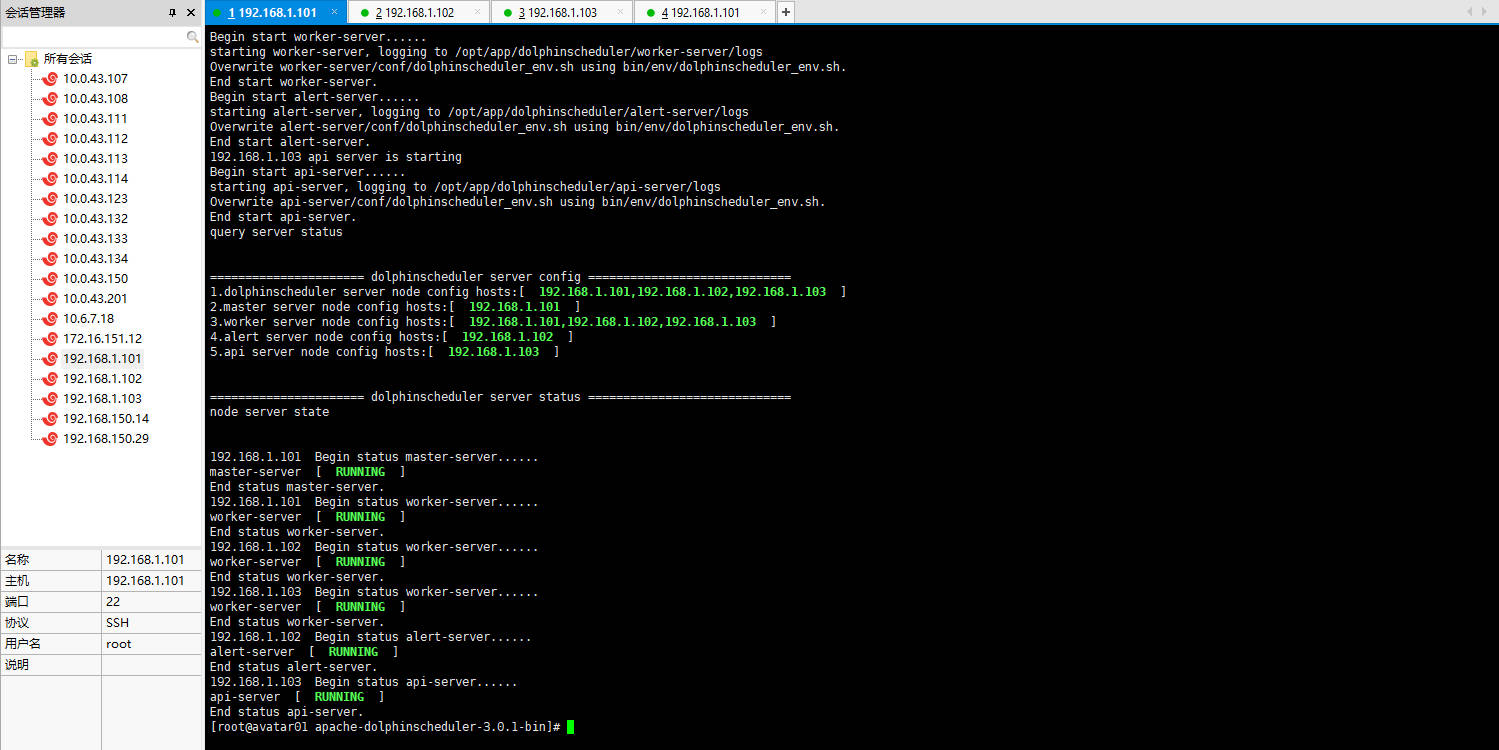
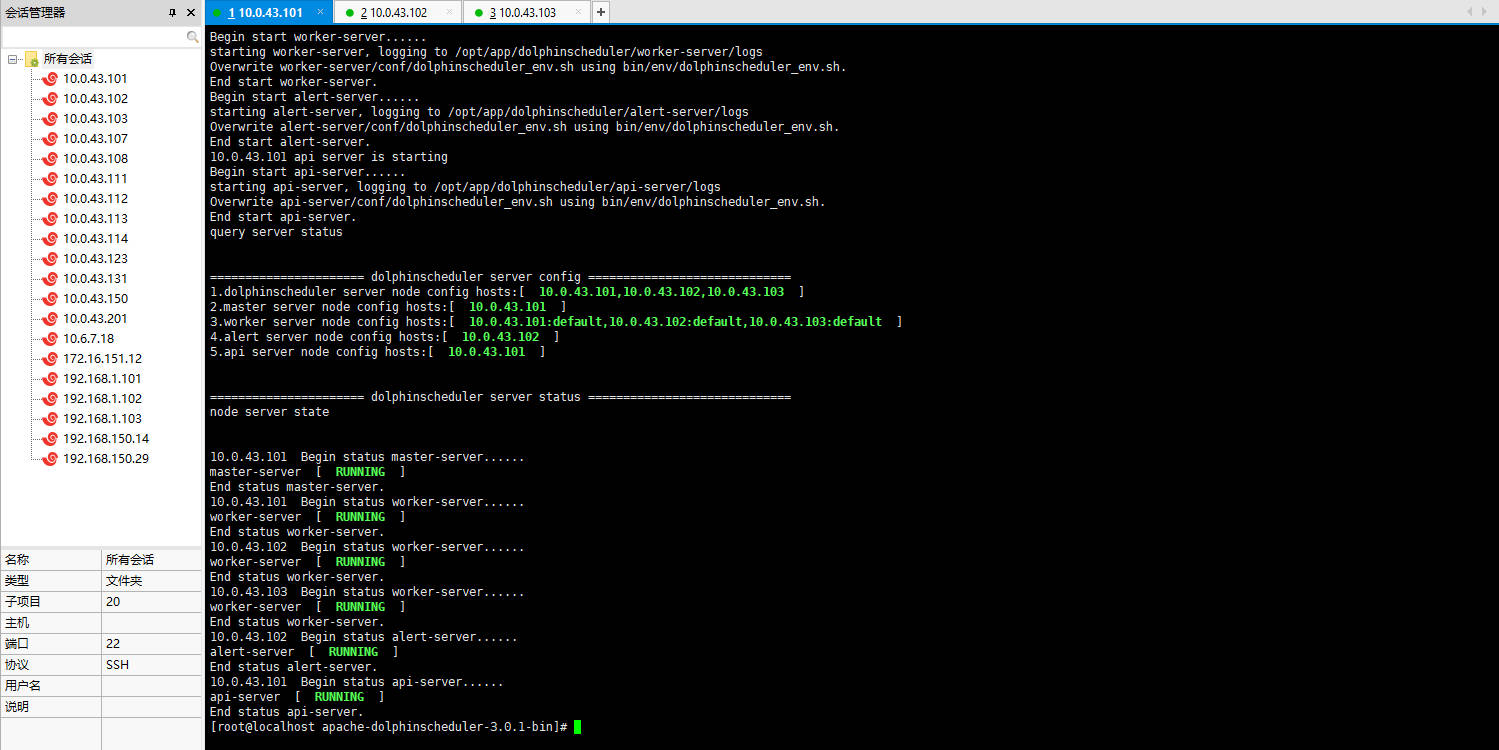
20221209

diff --git a/src/运维部署/DolphinScheduler安装部署记录.md b/src/运维部署/DolphinScheduler安装部署记录.md
@@ -10,7 +10,7 @@
 
 - ZooKeeper3.4.6+
 
-- SSH免密登陆
+- SSH免密登录
 
 ### 修改配置文件
 
@@ -18,19 +18,19 @@
 
 > vi bin/env/install_env.sh
 
-- 伪集群部署
+- 集群部署
 
 ```shell
 # ---------------------------------------------------------
 # INSTALL MACHINE
 # ---------------------------------------------------------
 # Due to the master, worker, and API server being deployed on a single node, the IP of the server is the machine IP or localhost
-ips="localhost"
+ips="10.0.43.101,10.0.43.102,10.0.43.103"
 sshPort="22"
-masters="localhost"
-workers="localhost:default"
-alertServer="localhost"
-apiServers="localhost"
+masters="10.0.43.101"
+workers="10.0.43.101:default,10.0.43.102:default,10.0.43.103:default"
+alertServer="10.0.43.102"
+apiServers="10.0.43.101"
 
 # DolphinScheduler installation path, it will auto-create if not exists
 installPath="/opt/app/dolphinscheduler"
@@ -42,22 +42,20 @@ deployUser="root"
 zkRoot="/dolphinscheduler"
 ```
 
-- 集群部署
+- 伪集群部署
 
 ```shell
-ips="192.168.1.101,192.168.1.102,192.168.1.103"
+ips="localhost"
 sshPort="22"
-masters="192.168.1.101"
-workers="192.168.1.101,192.168.1.102,192.168.1.103"
-alertServer="192.168.1.102"
-apiServers="192.168.1.103"
+masters="localhost"
+workers="localhost:default"
+alertServer="localhost"
+apiServers="localhost"
 ```
 
 #### dolphinscheduler_env.sh
 
 > vi bin/env/dolphinscheduler_env.sh
-
-- 伪集群部署
 
 ```shell
 # JAVA_HOME, will use it to start DolphinScheduler server
@@ -66,7 +64,7 @@ export JAVA_HOME=/opt/app/jdk1.8.0_202
 # Database related configuration, set database type, username and password
 export DATABASE=mysql
 export SPRING_PROFILES_ACTIVE=${DATABASE}
-export SPRING_DATASOURCE_URL="jdbc:mysql://192.168.1.101:3306/dolphinscheduler?useUnicode=true&characterEncoding=UTF-8&useSSL=false"
+export SPRING_DATASOURCE_URL="jdbc:mysql://10.0.43.101:3306/dolphinscheduler?useUnicode=true&characterEncoding=UTF-8&useSSL=false"
 export SPRING_DATASOURCE_USERNAME=root
 export SPRING_DATASOURCE_PASSWORD=********
 
@@ -127,7 +125,7 @@ CREATE DATABASE dolphinscheduler DEFAULT CHARACTER SET utf8 DEFAULT COLLATE utf8
 
 ### 访问DolphinScheduler
 
--  http://192.168.1.103:12345/dolphinscheduler/ui
+-  http://10.0.43.101:12345/dolphinscheduler/ui
   - admin/dolphinscheduler123
 
 ![](assets/DolphinScheduler安装部署记录/DolphinScheduler.jpg)
